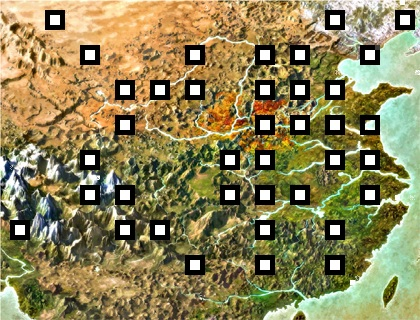
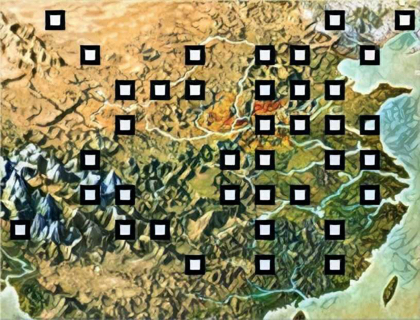
地图基本完成

diff --git a/src/ui/layaUI.max.all.js b/src/ui/layaUI.max.all.js
@@ -51,7 +51,7 @@ var heroListUI=(function(_super){
 			laya.ui.Component.prototype.createChildren.call(this);
 			this.createView(heroListUI.uiView);
 		}
-		heroListUI.uiView={"type":"Dialog","props":{"width":640,"top":20,"left":25,"height":440},"child":[{"type":"Image","props":{"y":0,"x":0,"var":"bg","skin":"img/modal_bg.jpg"}},{"type":"Button","props":{"y":-16,"x":610,"stateNum":1,"skin":"img/close_btn_bg.png","name":"close"}},{"type":"List","props":{"y":80,"x":50,"width":550,"var":"heros","repeatY":8,"repeatX":1,"height":321},"child":[{"type":"Box","props":{"y":0,"x":0,"width":110,"renderType":"render","name":"render","height":44},"child":[{"type":"Image","props":{"y":10,"x":2,"width":40,"name":"head","height":40}},{"type":"Label","props":{"y":16,"x":54,"width":60,"text":"\b\b赵云","name":"name","height":40,"fontSize":20,"align":"center"}},{"type":"Label","props":{"y":16,"x":135,"width":36,"text":"98","name":"force","height":40,"fontSize":20,"align":"center"}},{"type":"Label","props":{"y":16,"x":208,"width":36,"text":"78","name":"ruse","height":40,"fontSize":20,"align":"center"}},{"type":"Label","props":{"y":16,"x":280,"width":40,"text":"弓兵","name":"type","height":40,"fontSize":20,"align":"center"}},{"type":"Label","props":{"y":16,"x":327,"width":120,"text":"5000/9999","name":"troops","height":40,"fontSize":20,"align":"center"}},{"type":"Label","props":{"y":16,"x":456,"width":36,"text":"100","name":"experience","height":40,"fontSize":20,"align":"center"}},{"type":"Label","props":{"y":14,"x":513,"width":30,"text":"99","name":"level","height":40,"fontSize":20,"align":"center"}},{"type":"Label","props":{"y":16,"x":135,"width":36,"visible":false,"text":"98","name":"belong","height":40,"fontSize":20,"align":"center"}},{"type":"Label","props":{"y":16,"x":208,"width":36,"visible":false,"text":"100","name":"loyalty","height":40,"fontSize":20,"align":"center"}},{"type":"Label","props":{"y":16,"x":280,"visible":false,"text":"弓兵","name":"strength","height":40,"fontSize":20,"align":"center"}},{"type":"Label","props":{"y":16,"x":337,"width":120,"visible":false,"name":"quipment1","height":40,"fontSize":20,"align":"center"}},{"type":"Label","props":{"y":16,"x":456,"width":36,"visible":false,"text":"100","name":"quipment2","height":40,"fontSize":20,"align":"center"}}]},{"type":"VScrollBar","props":{"y":4,"x":530,"width":1,"pivotY":8,"pivotX":-30,"name":"scrollBar","height":330}}]},{"type":"Label","props":{"y":50,"x":50,"width":44,"text":"头像","strokeColor":"#ffffff","stroke":1,"height":22,"fontSize":22,"bold":true}},{"type":"Label","props":{"y":50,"x":114,"width":44,"text":"\b姓名","strokeColor":"#ffffff","stroke":1,"height":22,"fontSize":22,"bold":true}},{"type":"Label","props":{"y":50,"x":184,"width":44,"var":"forceLabel","text":"武力","strokeColor":"#ffffff","stroke":1,"height":22,"fontSize":22,"bold":true}},{"type":"Label","props":{"y":50,"x":258,"width":44,"var":"ruseLabel","text":"\b智谋","strokeColor":"#ffffff","stroke":1,"height":22,"fontSize":22,"bold":true}},{"type":"Label","props":{"y":50,"x":331,"width":44,"var":"typeLabel","text":"兵种","strokeColor":"#ffffff","stroke":1,"height":22,"fontSize":22,"bold":true}},{"type":"Label","props":{"y":50,"x":410,"width":44,"var":"troopsLabel","text":"兵力","strokeColor":"#ffffff","stroke":1,"height":22,"fontSize":22,"bold":true}},{"type":"Label","props":{"y":50,"x":496,"width":44,"var":"experienceLabel","text":"经验","strokeColor":"#ffffff","stroke":1,"height":22,"fontSize":22,"color":"#000000","bold":true}},{"type":"Label","props":{"y":50,"x":552,"width":44,"var":"levelLabel","text":"等级","strokeColor":"#ffffff","stroke":1,"height":22,"fontSize":22,"bold":true}},{"type":"Button","props":{"y":416,"x":460,"width":80,"stateNum":1,"skin":"img/btn_bg.jpg","labelSize":20,"labelBold":true,"label":"确定","height":40}},{"type":"Button","props":{"y":416,"x":546,"width":80,"stateNum":1,"skin":"img/btn_bg.jpg","name":"cancel","labelSize":20,"labelBold":true,"label":"取消","height":40}},{"type":"Button","props":{"y":-15,"x":260,"width":120,"stateNum":1,"skin":"img/btn_bg.jpg","labelSize":20,"label":"武将列表","height":40}},{"type":"Button","props":{"y":21,"x":-17,"width":40,"var":"basicInfoBtn","stateNum":1,"skin":"img/btn_v_bg.jpg","height":100}},{"type":"Button","props":{"y":127,"x":-17,"width":40,"var":"otherInfoBtn","stateNum":1,"skin":"img/btn_v_bg.jpg","height":100}},{"type":"Label","props":{"y":31,"x":-6,"var":"basicLabel1","text":"基","fontSize":18,"color":"#AE1916"}},{"type":"Label","props":{"y":49,"x":-6,"var":"basicLabel2","text":"本","fontSize":18,"color":"#AE1916"}},{"type":"Label","props":{"y":69,"x":-6,"var":"basicLabel3","text":"信","fontSize":18,"color":"#AE1916"}},{"type":"Label","props":{"y":88,"x":-6,"width":20,"var":"basicLabel4","text":"息","height":20,"fontSize":18,"color":"#AE1916"}},{"type":"Label","props":{"y":137,"x":-6,"var":"otherLabel1","text":"其","fontSize":18,"color":"#32556B"}},{"type":"Label","props":{"y":155,"x":-6,"width":18,"var":"otherLabel2","text":"他","height":22,"fontSize":18,"color":"#32556B"}},{"type":"Label","props":{"y":175,"x":-6,"var":"otherLabel3","text":"信","fontSize":18,"color":"#32556B"}},{"type":"Label","props":{"y":194,"x":-6,"width":20,"var":"otherLabel4","text":"息","height":20,"fontSize":18,"color":"#32556B"}}]};
+		heroListUI.uiView={"type":"Dialog","props":{"width":640,"top":20,"left":25,"height":440},"child":[{"type":"Image","props":{"y":0,"x":0,"var":"bg","skin":"img/modal_bg.jpg"}},{"type":"Button","props":{"y":-16,"x":610,"stateNum":1,"skin":"img/close_btn_bg.png","name":"close"}},{"type":"List","props":{"y":71,"x":50,"width":550,"var":"heros","repeatY":8,"repeatX":1,"height":330},"child":[{"type":"Box","props":{"y":0,"x":0,"width":110,"renderType":"render","name":"render","height":44},"child":[{"type":"Image","props":{"y":10,"x":2,"width":40,"name":"head","height":40}},{"type":"Label","props":{"y":16,"x":54,"width":60,"text":"\b\b赵云","name":"name","height":40,"fontSize":20,"align":"center"}},{"type":"Label","props":{"y":16,"x":135,"width":36,"text":"98","name":"force","height":40,"fontSize":20,"align":"center"}},{"type":"Label","props":{"y":16,"x":208,"width":36,"text":"78","name":"ruse","height":40,"fontSize":20,"align":"center"}},{"type":"Label","props":{"y":16,"x":280,"width":40,"text":"弓兵","name":"type","height":40,"fontSize":20,"align":"center"}},{"type":"Label","props":{"y":16,"x":327,"width":120,"text":"5000/9999","name":"troops","height":40,"fontSize":20,"align":"center"}},{"type":"Label","props":{"y":16,"x":456,"width":36,"text":"100","name":"experience","height":40,"fontSize":20,"align":"center"}},{"type":"Label","props":{"y":14,"x":513,"width":30,"text":"99","name":"level","height":40,"fontSize":20,"align":"center"}},{"type":"Label","props":{"y":16,"x":135,"width":36,"visible":false,"text":"98","name":"belong","height":40,"fontSize":20,"align":"center"}},{"type":"Label","props":{"y":16,"x":208,"width":36,"visible":false,"text":"100","name":"loyalty","height":40,"fontSize":20,"align":"center"}},{"type":"Label","props":{"y":16,"x":280,"visible":false,"text":"弓兵","name":"strength","height":40,"fontSize":20,"align":"center"}},{"type":"Label","props":{"y":16,"x":337,"width":120,"visible":false,"name":"quipment1","height":40,"fontSize":20,"align":"center"}},{"type":"Label","props":{"y":16,"x":456,"width":36,"visible":false,"text":"100","name":"quipment2","height":40,"fontSize":20,"align":"center"}}]},{"type":"VScrollBar","props":{"y":4,"x":530,"width":1,"pivotY":8,"pivotX":-30,"name":"scrollBar","height":330}}]},{"type":"Label","props":{"y":40,"x":50,"width":44,"text":"头像","strokeColor":"#ffffff","stroke":1,"height":22,"fontSize":22,"bold":true}},{"type":"Label","props":{"y":40,"x":114,"width":44,"text":"\b姓名","strokeColor":"#ffffff","stroke":1,"height":22,"fontSize":22,"bold":true}},{"type":"Label","props":{"y":40,"x":184,"width":44,"var":"forceLabel","text":"武力","strokeColor":"#ffffff","stroke":1,"height":22,"fontSize":22,"bold":true}},{"type":"Label","props":{"y":40,"x":258,"width":44,"var":"ruseLabel","text":"\b智谋","strokeColor":"#ffffff","stroke":1,"height":22,"fontSize":22,"bold":true}},{"type":"Label","props":{"y":40,"x":331,"width":44,"var":"typeLabel","text":"兵种","strokeColor":"#ffffff","stroke":1,"height":22,"fontSize":22,"bold":true}},{"type":"Label","props":{"y":40,"x":410,"width":44,"var":"troopsLabel","text":"兵力","strokeColor":"#ffffff","stroke":1,"height":22,"fontSize":22,"bold":true}},{"type":"Label","props":{"y":40,"x":496,"width":44,"var":"experienceLabel","text":"经验","strokeColor":"#ffffff","stroke":1,"height":22,"fontSize":22,"color":"#000000","bold":true}},{"type":"Label","props":{"y":40,"x":552,"width":44,"var":"levelLabel","text":"等级","strokeColor":"#ffffff","stroke":1,"height":22,"fontSize":22,"bold":true}},{"type":"Button","props":{"y":416,"x":460,"width":80,"stateNum":1,"skin":"img/btn_bg.jpg","labelSize":20,"labelBold":true,"label":"确定","height":40}},{"type":"Button","props":{"y":416,"x":546,"width":80,"stateNum":1,"skin":"img/btn_bg.jpg","name":"cancel","labelSize":20,"labelBold":true,"label":"取消","height":40}},{"type":"Button","props":{"y":-15,"x":260,"width":120,"stateNum":1,"skin":"img/btn_bg.jpg","labelSize":20,"label":"武将列表","height":40}},{"type":"Button","props":{"y":21,"x":-17,"width":40,"var":"basicInfoBtn","stateNum":1,"skin":"img/btn_v_bg.jpg","height":100}},{"type":"Button","props":{"y":127,"x":-17,"width":40,"var":"otherInfoBtn","stateNum":1,"skin":"img/btn_v_bg.jpg","height":100}},{"type":"Label","props":{"y":31,"x":-6,"var":"basicLabel1","text":"基","fontSize":18,"color":"#AE1916"}},{"type":"Label","props":{"y":49,"x":-6,"var":"basicLabel2","text":"本","fontSize":18,"color":"#AE1916"}},{"type":"Label","props":{"y":69,"x":-6,"var":"basicLabel3","text":"信","fontSize":18,"color":"#AE1916"}},{"type":"Label","props":{"y":88,"x":-6,"width":20,"var":"basicLabel4","text":"息","height":20,"fontSize":18,"color":"#AE1916"}},{"type":"Label","props":{"y":137,"x":-6,"var":"otherLabel1","text":"其","fontSize":18,"color":"#32556B"}},{"type":"Label","props":{"y":155,"x":-6,"width":18,"var":"otherLabel2","text":"他","height":22,"fontSize":18,"color":"#32556B"}},{"type":"Label","props":{"y":175,"x":-6,"var":"otherLabel3","text":"信","fontSize":18,"color":"#32556B"}},{"type":"Label","props":{"y":194,"x":-6,"width":20,"var":"otherLabel4","text":"息","height":20,"fontSize":18,"color":"#32556B"}}]};
 		return heroListUI;
 	})(Dialog);
 var mainUI=(function(_super){
@@ -74,7 +74,7 @@ var mainUI=(function(_super){
 			laya.ui.Component.prototype.createChildren.call(this);
 			this.createView(mainUI.uiView);
 		}
-		mainUI.uiView={"type":"View","props":{"width":800,"height":480},"child":[{"type":"Image","props":{"y":0,"x":-10,"skin":"img/map.jpg"}},{"type":"Image","props":{"y":0,"x":690,"width":110,"var":"info","skin":"img/right.jpg","height":480}},{"type":"Image","props":{"y":60,"x":704,"width":80,"var":"lordHead","height":80}},{"type":"Label","props":{"y":24,"x":705,"width":79,"var":"lordName","height":30,"fontSize":24,"color":"#ffffff","bold":true,"align":"center"}},{"type":"Label","props":{"y":146,"x":751,"width":33,"var":"cityLength","text":"1","height":30,"fontSize":24,"color":"#ffffff","bold":true,"align":"center"}},{"type":"Label","props":{"y":196,"x":747,"width":44,"var":"heroLength","text":"1","height":30,"fontSize":24,"color":"#ffffff","bold":true,"align":"center"}},{"type":"Label","props":{"y":264,"x":704,"width":44,"text":"203","height":30,"fontSize":28,"color":"#ffffff","bold":true,"align":"center"}},{"type":"Label","props":{"y":310,"x":715,"width":35,"text":"12","height":30,"fontSize":28,"color":"#ffffff","bold":true,"align":"center"}},{"type":"Button","props":{"y":413,"x":699,"width":92,"var":"menuBtn","stateNum":1,"skin":"img/btn_bg.jpg","labelSize":24,"label":"菜单","height":46}}]};
+		mainUI.uiView={"type":"View","props":{"width":800,"height":480},"child":[{"type":"Image","props":{"y":0,"x":0,"skin":"img/map.jpg"}},{"type":"Image","props":{"y":0,"x":690,"width":110,"var":"info","skin":"img/right.jpg","height":480}},{"type":"Image","props":{"y":60,"x":704,"width":80,"var":"lordHead","height":80}},{"type":"Label","props":{"y":24,"x":705,"width":79,"var":"lordName","height":30,"fontSize":24,"color":"#ffffff","bold":true,"align":"center"}},{"type":"Label","props":{"y":146,"x":751,"width":33,"var":"cityLength","text":"1","height":30,"fontSize":24,"color":"#ffffff","bold":true,"align":"center"}},{"type":"Label","props":{"y":196,"x":747,"width":44,"var":"heroLength","text":"1","height":30,"fontSize":24,"color":"#ffffff","bold":true,"align":"center"}},{"type":"Label","props":{"y":264,"x":704,"width":44,"text":"203","height":30,"fontSize":28,"color":"#ffffff","bold":true,"align":"center"}},{"type":"Label","props":{"y":310,"x":715,"width":35,"text":"12","height":30,"fontSize":28,"color":"#ffffff","bold":true,"align":"center"}},{"type":"Button","props":{"y":413,"x":699,"width":92,"var":"menuBtn","stateNum":1,"skin":"img/btn_bg.jpg","labelSize":24,"label":"菜单","height":46}}]};
 		return mainUI;
 	})(View);
 var menu1UI=(function(_super){

diff --git a/src/data.js b/src/data.js
@@ -211,6 +211,48 @@ var data = {
     '255 255',
     '325 255'
   ],
+
+  // 38 座城池在地图界面的归属坐标
+  cityPosition: [
+    '76 15',
+    '536 15',
+    '644 15',
+    '133 68',
+    '305 68',
+    '420 68',
+    '478 68',
+    '594 68',
+    '190 121',
+    '247 121',
+    '305 121',
+    '420 121',
+    '478 121',
+    '536 121',
+    '190 174',
+    '420 174',
+    '478 174',
+    '536 174',
+    '594 174',
+    '133 226',
+    '363 226',
+    '420 226',
+    '536 226',
+    '594 226',
+    '133 278',
+    '190 278',
+    '363 278',
+    '420 278',
+    '478 278',
+    '594 278',
+    '18 331',
+    '190 331',
+    '247 331',
+    '420 331',
+    '535 331',
+    '305 384',
+    '420 384',
+    '535 384'
+  ],
   
   // 4 个时期 37 座城池的信息，依次是序号、归属、太守、农业、商业... TODO:
   dznqCityInfo: [
@@ -374,170 +416,14 @@ var data = {
       '37 0 0 4819 1590 3045 1278 33 43 216339 80045 142 397 0 166 0 24 1'
     ],
 
-    // 董卓弄权时期的每个城池的归属，针对单个的城池的
-    dznqCitySetOwn: [
-      '1 0 0', 
-      '9 0 1', 
-      '11 0 2', 
-      '2 1 0', 
-      '5 1 3', 
-      '7 1 4', 
-      '8 1 5', 
-      '10 1 6', 
-      '3 2 0', 
-      '4 2 7', 
-      '5 2 8', 
-      '7 2 9', 
-      '8 2 10', 
-      '9 2 11', 
-      '3 3 12', 
-      '7 3 8', 
-      '8 3 13', 
-      '9 3 11', 
-      '10 3 11', 
-      '2 4 99', 
-      '6 4 8', 
-      '7 4 14', 
-      '9 4 99', 
-      '10 4 99', 
-      '2 5 15', 
-      '3 5 99', 
-      '6 5 16', 
-      '7 5 16', 
-      '8 5 99', 
-      '10 5 99', 
-      '0 6 99', 
-      '3 6 99', 
-      '4 6 99', 
-      '7 6 17', 
-      '9 6 99', 
-      '5 7 99', 
-      '7 7 99', 
-      '9 7 99'
-    ],
+    // 董卓弄权时期的每个城池的归属哪个君主，针对单个的城池的, 99 代表无人占领
+    dznqCitySetOwn: [0, 1, 2, 0, 3, 4, 5, 6, 0, 7, 8, 9, 10, 11, 12, 8, 13, 11, 11, 99, 8, 14, 99, 99, 15, 99, 16, 16, 99, 99, 99, 99, 99, 17, 99, 99, 99, 99],
 
-    ccjqCitySetOwn: [
-      '1 0 0', 
-      '9 0 1', 
-      '11 0 2', 
-      '2 1 0', 
-      '5 1 1', 
-      '7 1 1', 
-      '8 1 1', 
-      '10 1 3', 
-      '3 2 0', 
-      '4 2 4', 
-      '5 2 4', 
-      '7 2 1', 
-      '8 2 5', 
-      '9 2 6', 
-      '3 3 7', 
-      '7 3 99', 
-      '8 3 8', 
-      '9 3 6', 
-      '10 3 6', 
-      '2 4 9', 
-      '6 4 10', 
-      '7 4 11', 
-      '9 4 12', 
-      '10 4 12', 
-      '2 5 9', 
-      '3 5 9', 
-      '6 5 13', 
-      '7 5 13', 
-      '8 5 99', 
-      '10 5 99', 
-      '0 6 9', 
-      '3 6 9', 
-      '4 6 99', 
-      '7 6 14', 
-      '9 6 99', 
-      '5 7 99', 
-      '7 7 99', 
-      '9 7 15'
-    ],
+    ccjqCitySetOwn: [0, 1, 2, 0, 1, 1, 1, 3, 0, 4, 4, 1, 5, 6, 7, 99, 8, 6, 6, 9, 10, 11, 12, 12, 9, 9, 13, 13, 99, 99, 99, 9, 99, 14, 99, 99, 99, 15],
 
-    cbzzCitySetOwn: [
-      '1 0 0', 
-      '9 0 1', 
-      '11 0 2', 
-      '2 1 0', 
-      '5 1 1', 
-      '7 1 1', 
-      '8 1 1', 
-      '10 1 1', 
-      '3 2 0', 
-      '4 2 1', 
-      '5 2 1', 
-      '7 2 1', 
-      '8 2 1', 
-      '9 2 1', 
-      '3 3 3', 
-      '7 3 1', 
-      '8 3 1', 
-      '9 3 99', 
-      '10 3 99', 
-      '2 4 4', 
-      '6 4 1', 
-      '7 4 1', 
-      '9 4 5', 
-      '10 4 5', 
-      '2 5 4', 
-      '3 5 4', 
-      '6 5 1', 
-      '7 5 6', 
-      '8 5 5', 
-      '10 5 5', 
-      '0 6 99', 
-      '3 6 4', 
-      '4 6 7', 
-      '7 6 8', 
-      '9 6 5', 
-      '5 7 9', 
-      '7 7 10', 
-      '9 7 99'
-    ],
+    cbzzCitySetOwn: [0, 1, 2, 0, 1, 1, 1, 1, 0, 1, 1, 1, 1, 1, 3, 1, 1, 99, 99, 4, 1, 1, 5, 5, 4, 4, 1, 6, 5, 5, 99, 4, 7, 8, 5, 9, 10, 99],
 
-    sgdlCitySetOwn: [
-      '1 0 99', 
-      '9 0 0', 
-      '11 0 1', 
-      '2 1 99', 
-      '5 1 0', 
-      '7 1 0', 
-      '8 1 0', 
-      '10 1 0', 
-      '3 2 0', 
-      '4 2 0', 
-      '5 2 0', 
-      '7 2 0', 
-      '8 2 0', 
-      '9 2 0', 
-      '3 3 2', 
-      '7 3 0', 
-      '8 3 0', 
-      '9 3 99', 
-      '10 3 99', 
-      '2 4 2', 
-      '6 4 0', 
-      '7 4 0', 
-      '9 4 3', 
-      '10 4 3', 
-      '2 5 2', 
-      '3 5 2', 
-      '6 5 3', 
-      '7 5 3', 
-      '8 5 3', 
-      '10 5 3', 
-      '0 6 4', 
-      '3 6 2', 
-      '4 6 3', 
-      '7 6 3', 
-      '9 6 3', 
-      '5 7 3', 
-      '7 7 3', 
-      '9 7 99'
-    ],
+    sgdlCitySetOwn: [99, 0, 1, 99, 0, 0, 0, 0, 0, 0, 0, 0, 0, 0, 2, 0, 0, 99, 99, 2, 0, 0, 3, 3, 2, 2, 3, 3, 3, 3, 4, 2, 3, 3, 3, 3, 3, 99],
 
     // 董卓弄权时期的 200 个英雄名字，其中只有 187 个是有效的，后面暂时无用
     dznqHerosName: ['董卓', '曹操', '袁绍', '袁术', '孙坚', '马腾', '陶谦', '孔融', '刘岱', '张杨', '韩馥', '王匡', '张邈', '刘备', '刘表', '刘焉', '公孙瓒', '公孙度', '张鲁', '李儒', '吕布', '华雄', '张辽', '李傕', '郭汜', '李肃', '侯成', '高顺', '徐荣', '牛辅', '王允', '荀攸', '夏侯惇', '夏侯渊', '李典', '乐进', '曹洪', '曹仁', '颜良', '文丑', '淳于琼', '逢纪', '审配', '田丰', '沮授', '许攸', '纪灵', '陈兰', '雷薄', '俞涉', '程普', '韩当', '黄盖', '祖茂', '孙策', '孙权', '韩遂', '马超', '庞德', '侯选', '程银', '李堪', '张横', '梁兴', '成宜', '马玩', '杨秋', '陈圭', '陈登', '孙乾', '糜竺', '糜芳', '曹豹', '太史慈', '武安国', '刘繇', '乔瑁', '袁遗', '董昭', '穆顺', '潘凤', '荀谌', '辛评', '关纯', '耿武', '方悦', '陈宫', '典韦', '张超', '关羽', '张飞', '蒯良', '蒯越', '蔡瑁', '张允', '黄祖', '甘宁', '张任', '严颜', '公孙越', '严纲', '王门', '田楷', '公孙康', '公孙恭', '张卫', '杨松', '杨任', '阎圃', '凌统', '曹休', '刘晔', '陈群', '刘璋', '陈武', '陆逊', '程昱', '吕范', '吕蒙', '费祎', '董允', '马良', '马谡', '满宠', '庞统', '关平', '郭嘉', '王朗', '虞翻', '华歆', '蒋琬', '文聘', '贾诩', '蒋钦', '辛毗', '徐庶', '雷铜', '许褚', '荀彧', '法正', '张松', '孟达', '李严', '吴懿', '黄权', '杨修', '伊籍', '于禁', '袁尚', '袁谭', '袁熙', '张纮', '张昭', '周仓', '廖化', '周泰', '诸葛谨', '诸葛亮', '郭图', '张南', '朱桓', '张绣', '钟繇', '徐晃', '凌操', '张郃', '赵云', '臧霸', '王平', '魏延', '王粲', '鲁肃', '丁奉', '王威', '王修', '王累', '简雍', '向朗', '阚泽', '黄忠', '高览', '高干', '王忠', '管辂', '华佗', '通宵虫', '南方小鬼', '男005', '男006', '男007', '男008', '男010', '男011', '男012', '男013', '男014', '女01', '女02', '女03', '女04'],

diff --git a/src/Main.js b/src/Main.js
@@ -5,6 +5,7 @@
   function Main(period, lordIndex) {
     this.period = period; // 四个时期：dznq, ccjq, cbzz, sgdl
     this.lordIndex = lordIndex;
+    this.cities = [];
     this.ui = new mainUI();
     
     this.handleUI();
@@ -37,6 +38,52 @@
 
     this.ui.menuBtn.on(Event.CLICK, this, this.stop);
     this.ui.lordHead.on(Event.CLICK, this, this.openHeroList);
+
+    this.flagCityMap();
+  }
+  
+  // 'img/city_hiscity.jpg', 'img/city_emcity.jpg', 'img/city_mycity.jpg'
+  Main.prototype.flagCityMap = function(cities) {
+    // if (this.cities.length > 0) {
+    //   for (var i = 0; i < this.cities.length; i++) {
+    //     this.ui.removeChild(this.cities[i]);
+    //   }
+    //   this.cities = [];
+    // }
+
+    var positions = data.cityPosition;
+    // 获取这个时期每个城池是属于哪个君主的
+    var owns = data[this.period + 'CitySetOwn'];
+    for (var i = 0; i < positions.length; i++) {
+      var imgUrl = 'img/city_hiscity.jpg';
+      if (owns[i] === 99) {
+        imgUrl = 'img/city_emcity.jpg';
+      } else if (owns[i] === this.lordIndex) {
+        imgUrl = 'img/city_mycity.jpg'; 
+      }
+      
+      var p = positions[i].split(' ');
+      var sp = new Laya.Sprite();
+      sp.loadImage(imgUrl);
+      sp.pos(p[0], p[1]);
+      this.cities.push(sp);
+      this.ui.addChild(sp);
+
+      sp.on(Event.CLICK, this, this.cityHandle.bind(this, i));
+    }
+  }
+
+  Main.prototype.cityHandle = function(i) {
+    // 通过城池 id 找到归属君主的 id
+    var lordId = data[this.period + 'CitySetOwn'][i];
+    if (this.lordIndex === lordId) {
+      console.log('我自己的城池');
+    } else if (lordId === 99) {
+      console.log('无人占领城池');
+    } else {
+      var lordName = data[this.period + 'Lord'][lordId];
+      console.log(lordName + '的城池');
+    }
   }
 
   Main.prototype.openHeroList = function() {

diff --git a/src/Game.js b/src/Game.js
@@ -18,7 +18,7 @@ function loadImages(tl) {
   Laya.loader.load(['img/gmstart.jpg']);
   Laya.loader.load(['img/history.jpg', 'img/btn_bg.jpg', 'img/btn_v_bg.jpg']);
   Laya.loader.load(['img/white.jpg', 'img/who.jpg', 'img/head_dznq.jpg', 'img/head_ccjq.jpg', 'img/head_cbzz.jpg', 'img/head_sgdl.jpg']);
-  Laya.loader.load(['img/map.jpg', 'img/right.jpg', 'img/close_btn_bg.png']);
+  Laya.loader.load(['img/map.jpg', 'img/right.jpg', 'img/close_btn_bg.png', 'img/city_hiscity.jpg', 'img/city_emcity.jpg', 'img/city_mycity.jpg']);
 }
 
 function showCG() {
